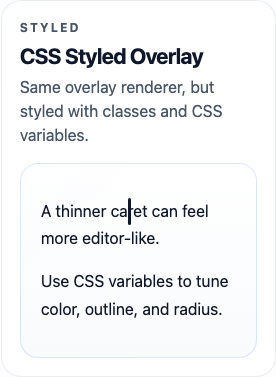
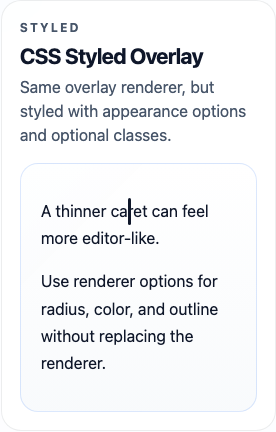
fix: improve overlay styling options

diff --git a/packages/dom/src/overlay/create-overlay-renderer.ts b/packages/dom/src/overlay/create-overlay-renderer.ts
@@ -12,11 +12,24 @@ export interface OverlayRenderer {
 
 export interface OverlayRendererOptions {
   caretWidth?: number
+  caretColor?: string
+  caretRadius?: number | string
+  selectionBackground?: string
+  selectionOutline?: string
+  selectionRadius?: number | string
   classNames?: {
     root?: string
     caret?: string
     selection?: string
   }
+}
+
+function formatCssLength(value: number | string | undefined, fallback: string) {
+  if (value === undefined) {
+    return fallback
+  }
+
+  return typeof value === 'number' ? `${value}px` : value
 }
 
 function ensureOverlayRoot(host: HTMLElement) {
@@ -44,6 +57,19 @@ export function createOverlayRenderer(
 ): OverlayRenderer {
   const root = ensureOverlayRoot(host)
   const caretWidth = options.caretWidth ?? 2
+  const caretBackground = options.caretColor ?? 'var(--caret-color, rgba(15, 23, 42, 0.9))'
+  const caretRadius = formatCssLength(
+    options.caretRadius,
+    `var(--caret-radius, ${Math.min(caretWidth / 2, 2)}px)`
+  )
+  const selectionBackground =
+    options.selectionBackground ?? 'var(--caret-selection-background, rgba(30, 64, 175, 0.16))'
+  const selectionOutline =
+    options.selectionOutline ?? 'var(--caret-selection-outline, 1px solid rgba(30, 64, 175, 0.18))'
+  const selectionRadius = formatCssLength(
+    options.selectionRadius,
+    'var(--caret-selection-radius, 0px)'
+  )
   let mounted = false
 
   if (options.classNames?.root !== undefined) {
@@ -71,8 +97,9 @@ export function createOverlayRenderer(
       marker.style.top = `${rect.y}px`
       marker.style.width = `${Math.max(0, rect.width)}px`
       marker.style.height = `${Math.max(0, rect.height)}px`
-      marker.style.background = 'var(--caret-selection-background, rgba(30, 64, 175, 0.16))'
-      marker.style.outline = 'var(--caret-selection-outline, 1px solid rgba(30, 64, 175, 0.18))'
+      marker.style.background = selectionBackground
+      marker.style.outline = selectionOutline
+      marker.style.borderRadius = selectionRadius
       root.appendChild(marker)
     }
 
@@ -87,8 +114,8 @@ export function createOverlayRenderer(
       marker.style.top = `${caret.y}px`
       marker.style.width = `${caretWidth}px`
       marker.style.height = `${Math.max(0, caret.height)}px`
-      marker.style.background = 'var(--caret-color, rgba(15, 23, 42, 0.9))'
-      marker.style.borderRadius = `var(--caret-radius, ${Math.min(caretWidth / 2, 2)}px)`
+      marker.style.background = caretBackground
+      marker.style.borderRadius = caretRadius
       root.appendChild(marker)
     }
   }

diff --git a/packages/dom/tests/attach-caret.test.ts b/packages/dom/tests/attach-caret.test.ts
@@ -223,6 +223,94 @@ describe('attachCaret', () => {
     root.remove()
   })
 
+  it('does not double-count vertical offsets for later blocks', () => {
+    installMeasureMock()
+
+    const root = document.createElement('div')
+    root.style.padding = '18px 20px'
+    root.innerHTML = '<p>Hello world</p><p>Second line</p>'
+    document.body.appendChild(root)
+
+    const paragraphs = root.querySelectorAll('p')
+    const firstParagraph = paragraphs[0]
+    const secondParagraph = paragraphs[1]
+    if (!(firstParagraph instanceof HTMLElement) || !(secondParagraph instanceof HTMLElement)) {
+      throw new Error('Expected paragraph elements')
+    }
+
+    vi.spyOn(root, 'getBoundingClientRect').mockReturnValue({
+      x: 0,
+      y: 0,
+      left: 0,
+      top: 0,
+      right: 220,
+      bottom: 160,
+      width: 220,
+      height: 160,
+      toJSON() {
+        return {}
+      }
+    } as DOMRect)
+    vi.spyOn(firstParagraph, 'getBoundingClientRect').mockReturnValue({
+      x: 20,
+      y: 18,
+      left: 20,
+      top: 18,
+      right: 130,
+      bottom: 38,
+      width: 110,
+      height: 20,
+      toJSON() {
+        return {}
+      }
+    } as DOMRect)
+    vi.spyOn(secondParagraph, 'getBoundingClientRect').mockReturnValue({
+      x: 20,
+      y: 72,
+      left: 20,
+      top: 72,
+      right: 130,
+      bottom: 92,
+      width: 110,
+      height: 20,
+      toJSON() {
+        return {}
+      }
+    } as DOMRect)
+
+    const render = vi.fn()
+    const createRenderer = vi.fn((host: HTMLElement) => ({
+      root: host.ownerDocument.createElement('div'),
+      render,
+      destroy: vi.fn()
+    }))
+
+    const caret = attachCaret({ root, createRenderer })
+    caret.mount()
+    caret.setSelection({
+      anchor: {
+        path: [1, 0],
+        offset: 0
+      },
+      focus: {
+        path: [1, 0],
+        offset: 6
+      }
+    })
+
+    expect(render.mock.lastCall?.[0]?.visualState.selectionRects).toEqual([
+      {
+        x: 20,
+        y: 72,
+        width: 60,
+        height: 20
+      }
+    ])
+
+    caret.unmount()
+    root.remove()
+  })
+
   it('falls back without mounting the overlay for rtl roots', () => {
     installMeasureMock()
 

diff --git a/packages/dom/tests/overlay-renderer.test.ts b/packages/dom/tests/overlay-renderer.test.ts
@@ -12,7 +12,12 @@ describe('createOverlayRenderer', () => {
         caret: 'caret-part',
         selection: 'selection-part'
       },
-      caretWidth: 3
+      caretWidth: 3,
+      caretColor: '#111827',
+      caretRadius: 4,
+      selectionBackground: 'rgba(59, 130, 246, 0.22)',
+      selectionOutline: '1px solid rgba(59, 130, 246, 0.35)',
+      selectionRadius: 8
     })
 
     renderer.render({
@@ -42,12 +47,13 @@ describe('createOverlayRenderer', () => {
     expect(caret).toBeInstanceOf(HTMLElement)
     expect((caret as HTMLElement).classList.contains('caret-part')).toBe(true)
     expect((caret as HTMLElement).style.width).toBe('3px')
-    expect((caret as HTMLElement).style.background).toContain('var(--caret-color')
-    expect((caret as HTMLElement).style.borderRadius).toContain('var(--caret-radius')
+    expect((caret as HTMLElement).style.background).toBe('rgb(17, 24, 39)')
+    expect((caret as HTMLElement).style.borderRadius).toBe('4px')
     expect(selection).toBeInstanceOf(HTMLElement)
     expect((selection as HTMLElement).classList.contains('selection-part')).toBe(true)
-    expect((selection as HTMLElement).style.background).toContain('var(--caret-selection-background')
-    expect((selection as HTMLElement).style.outline).toContain('var(--caret-selection-outline')
+    expect((selection as HTMLElement).style.background).toBe('rgba(59, 130, 246, 0.22)')
+    expect((selection as HTMLElement).style.outline).toBe('1px solid rgba(59, 130, 246, 0.35)')
+    expect((selection as HTMLElement).style.borderRadius).toBe('8px')
 
     renderer.destroy()
     host.remove()

diff --git a/playground/src/App.tsx b/playground/src/App.tsx
@@ -14,6 +14,11 @@ interface ExampleCardProps {
 function createStyledRenderer(host: HTMLElement) {
   return createOverlayRenderer(host, {
     caretWidth: 3,
+    caretColor: '#0f172a',
+    caretRadius: 3,
+    selectionBackground: 'rgba(37, 99, 235, 0.2)',
+    selectionOutline: '1px solid rgba(37, 99, 235, 0.4)',
+    selectionRadius: 8,
     classNames: {
       root: 'styled-overlay',
       caret: 'styled-overlay__caret',
@@ -140,12 +145,12 @@ export function App() {
           <ExampleCard
             id="styled"
             title="CSS Styled Overlay"
-            description="Same overlay renderer, but styled with classes and CSS variables."
+            description="Same overlay renderer, but styled with appearance options and optional classes."
             createRenderer={createStyledRenderer}
             editorClassName="example-editor--styled"
           >
             <p>A thinner caret can feel more editor-like.</p>
-            <p>Use CSS variables to tune color, outline, and radius.</p>
+            <p>Use renderer options for radius, color, and outline without replacing the renderer.</p>
           </ExampleCard>
 
           <ExampleCard

diff --git a/packages/dom/src/attach-caret.ts b/packages/dom/src/attach-caret.ts
@@ -148,13 +148,14 @@ function positionGeometry(
     const offsetY = element === root
       ? rootMetrics.paddingTop
       : elementRect.top - rootOriginY + elementMetrics.paddingTop
+    const baseY = blockGeometry.rects[0]?.y ?? 0
 
     return {
       blockIndex: blockGeometry.blockIndex,
       rects: blockGeometry.rects.map((rect) => ({
         ...rect,
         x: rect.x + offsetX,
-        y: rect.y + offsetY,
+        y: rect.y - baseY + offsetY,
         caretX: rect.caretX + offsetX
       }))
     }

diff --git a/README.md b/README.md
@@ -116,7 +116,7 @@ export function Editor() {
 
 ![Styled overlay example](assets/readme/styled-example.png)
 
-Use the built-in renderer, but style it with classes and CSS variables:
+Use the built-in renderer, but tune the appearance directly:
 
 ```tsx
 import { CaretRoot } from '@caret/react'
@@ -128,6 +128,11 @@ export function Editor() {
       createRenderer={(host) =>
         createOverlayRenderer(host, {
           caretWidth: 3,
+          caretColor: '#0f172a',
+          caretRadius: 3,
+          selectionBackground: 'rgba(37, 99, 235, 0.2)',
+          selectionOutline: '1px solid rgba(37, 99, 235, 0.4)',
+          selectionRadius: 8,
           classNames: {
             root: 'styled-overlay',
             caret: 'styled-overlay__caret',
@@ -138,7 +143,7 @@ export function Editor() {
     >
       <div className="example-editor--styled" contentEditable suppressContentEditableWarning>
         <p>A thinner caret can feel more editor-like.</p>
-        <p>Use CSS variables to tune color, outline, and radius.</p>
+        <p>Use renderer options for radius, color, and outline without replacing the renderer.</p>
       </div>
     </CaretRoot>
   )
@@ -146,14 +151,8 @@ export function Editor() {
 ```
 
 ```css
-.example-editor--styled .styled-overlay__caret {
-  --caret-color: #0f172a;
-  --caret-radius: 3px;
-}
-
-.example-editor--styled .styled-overlay__selection {
-  --caret-selection-background: rgba(37, 99, 235, 0.2);
-  --caret-selection-outline: 1px solid rgba(37, 99, 235, 0.4);
+.styled-overlay {
+  filter: saturate(1.05);
 }
 ```
 
@@ -227,6 +226,16 @@ It also supports CSS variables:
 - `--caret-radius`
 - `--caret-selection-background`
 - `--caret-selection-outline`
+- `--caret-selection-radius`
+
+For most styling, prefer renderer options:
+
+- `caretWidth`
+- `caretColor`
+- `caretRadius`
+- `selectionBackground`
+- `selectionOutline`
+- `selectionRadius`
 
 ### Style With `createOverlayRenderer`
 
@@ -238,6 +247,11 @@ const caret = attachCaret({
   createRenderer(host) {
     return createOverlayRenderer(host, {
       caretWidth: 3,
+      caretColor: '#111827',
+      caretRadius: 2,
+      selectionBackground: 'rgba(59, 130, 246, 0.22)',
+      selectionOutline: '1px solid rgba(59, 130, 246, 0.32)',
+      selectionRadius: 8,
       classNames: {
         root: 'caret-overlay',
         caret: 'caret-overlay__caret',
@@ -251,14 +265,8 @@ caret.mount()
 ```
 
 ```css
-.caret-overlay__caret {
-  --caret-color: #111827;
-  --caret-radius: 2px;
-}
-
 .caret-overlay__selection {
-  --caret-selection-background: rgba(59, 130, 246, 0.22);
-  --caret-selection-outline: 1px solid rgba(59, 130, 246, 0.32);
+  box-shadow: 0 4px 10px rgba(59, 130, 246, 0.12);
 }
 ```
 
